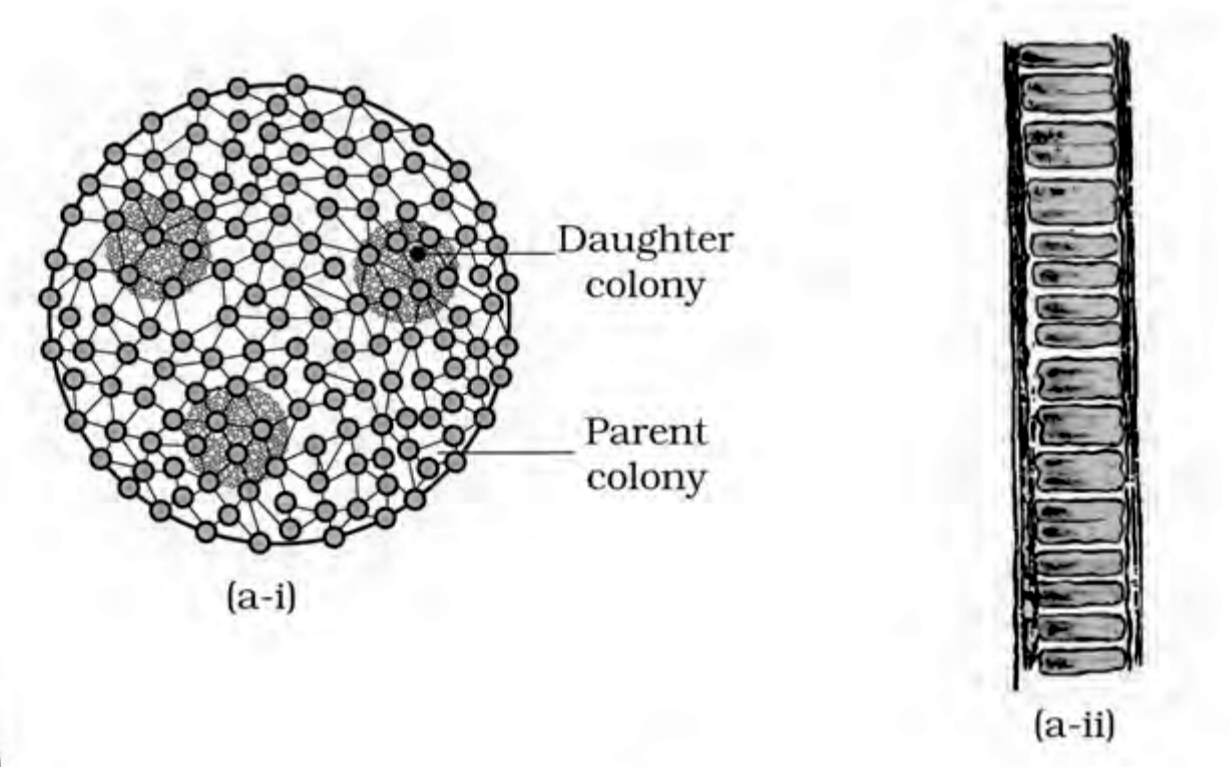
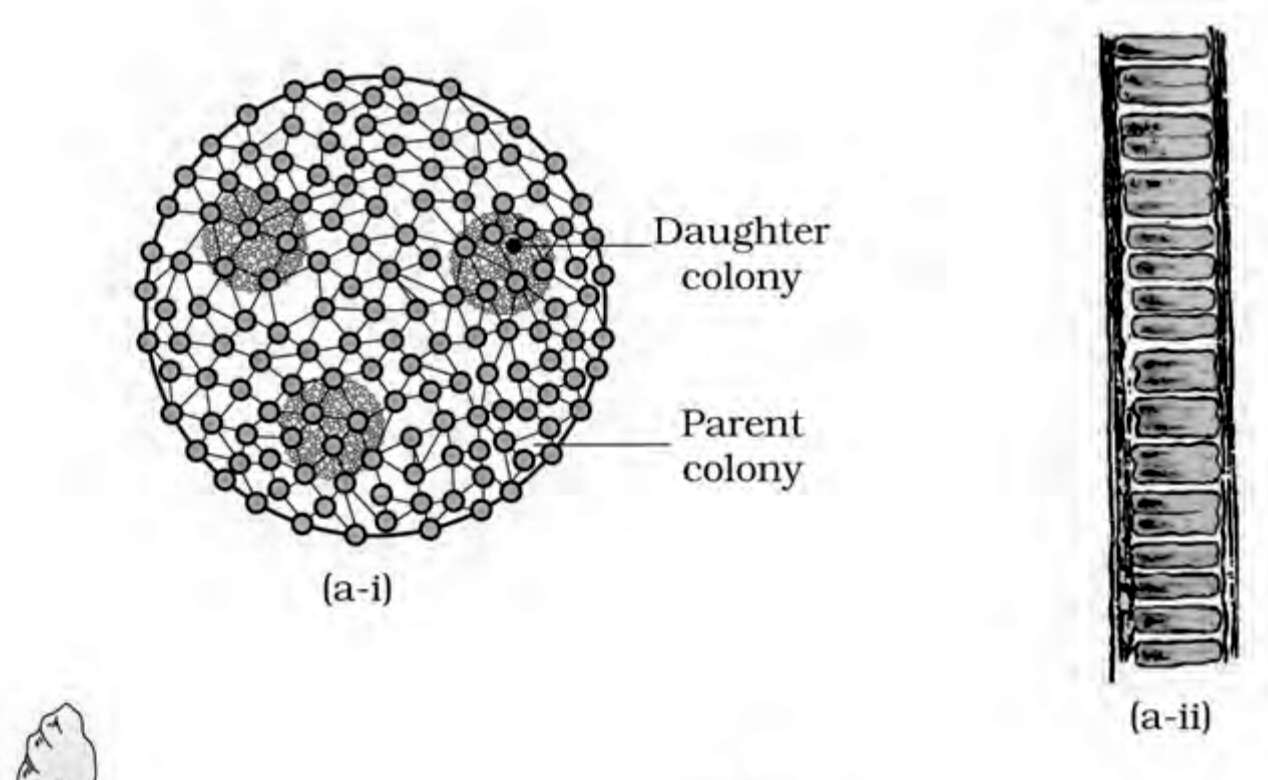
feat: refine Figure 3.1 extraction with improved crop boundaries and scrub rects

diff --git a/notes/class 11/Ch3_PlantKingdom/extract_figures.py b/notes/class 11/Ch3_PlantKingdom/extract_figures.py
@@ -34,39 +34,61 @@ DPI = 300
 # (asset_name, 1-based source page, clip rect, scrub rects) -- all rects are in PDF
 # points as (x0, y0, x1, y1) in *page* coordinates.
 #
-# `scrub` exists only because Figure 3.1's three caption sub-parts are NOT separated
-# by clean horizontal whitespace in the source plate: (b-i) Laminaria starts at
-# y=274.6 while row (a)'s "(a-ii)" label still runs to y=281.3, and (c-i) Porphyra
-# starts at y=490.6 while (b-iii) Dictyota runs down to y=540.5. Any rectangle that
-# captures all of row (b) therefore also catches a corner of row (a) or row (c).
-# Each scrub rect whites out ONLY a neighbouring figure's intrusion -- measured from
-# an ink-profile scan, never overlapping the target sub-part's own artwork or labels.
-# Nothing belonging to the figure being extracted is ever painted over.
+# `scrub` exists only because Figure 3.1's sub-parts are laid out as INTERLEAVED
+# COLUMNS, not clean rows. All part artwork + labels are baked into one raster
+# (page-3 image bbox x 68.8-494.7, y 102.0-672.3) with no text layer, so every
+# boundary below was measured from a thresholded ink-profile/bbox scan of that
+# raster at 200 dpi, then confirmed against a coordinate-gridded 150 dpi render.
+#
+# Measured extents (PDF points, page coords):
+#   (a-i)  artwork  x  95-235  y 112-245   + "(a-i)"  label below it
+#   (a-ii) artwork  x 330-390  y 112-266   + "(a-ii)" label x 353-390 y 270-287
+#   row (b) artwork            y 296-479.5, full x 69-486
+#     (b-i)   x  69-159   (b-ii)  x 186-337   (b-iii) x 353-486
+#   row (c) artwork x  91-443  y 487.8-671.4
+#     (c-i)   x 104-234   (c-ii)  x 295-443
+#
+# The single genuine collision: row (a)'s "(a-ii)" part label sits at
+# x 353-390 / y 270-287, i.e. BELOW the full-width whitespace band at y=270-275
+# and therefore inside any crop that starts at y=274. (b-iii) Dictyota's own
+# artwork does not begin until y=309.6 and (b-i)/(b-ii) not until y=296, so
+# starting row (b) at y=290 clears the "(a-ii)" label completely without
+# touching a single pixel of row (b) -- no scrub rect is needed at all.
+# Right edge 490 keeps (b-iii)'s "Frond" leader + label (ends x=486.2) intact.
+# Row (c) is cleanly separated: nothing of row (b) reaches below y=479.5.
 FIGURES = [
     # Figure 3.1 Algae -- one crop per NCERT caption sub-part, because the body text
     # itself cites "(Figure 3.1a)", "(Figure 3.1b)" and "(Figure 3.1c)" separately at
     # the end of 3.1.1, 3.1.2 and 3.1.3 respectively.
-    ("fig_3_1a", 3, (111.0, 104.0, 406.0, 288.0), []),
-    # Row (b) ends at y=478 (the "(b-i)"/"(b-ii)"/"(b-iii)" part labels bottom out at
-    # ~y=470); row (c)'s artwork does not begin until y=490. Measured off a 150 dpi
-    # gridded render of the plate: the ONLY clean full-width whitespace band on this
-    # page is y=270.2-274.5 (between rows a and b), so the b/c boundary is placed in
-    # the per-part vertical gap instead. A previous crop ran row (b) to y=491, which
-    # dragged the top of (c-i) Porphyra into the (b) asset.
-    # Right edge pushed to 496 so (b-iii)'s "Frond" leader + label are not clipped.
-    # The single scrub rect removes row (a)'s "(a-ii)" part label, which sits at
-    # y=274-286 directly above (b-iii); (b-iii)'s own artwork does not start until
-    # y~300, so nothing belonging to row (b) is painted over.
+    # Row (a): measured ink x 93.5-385.1, y 112.6-289.4 (the left bound is the
+    # "Daughter colony"/"Parent colony" leader text, not the Volvox artwork, and the
+    # lower bound is the "(a-i)"/"(a-ii)" part labels). Padded to clear both.
+    ("fig_3_1a", 3, (88.0, 106.0, 392.0, 293.0), []),
+    # Row (b): starts at y=290 -- below row (a)'s "(a-ii)" label (ends y=287) and
+    # above row (b)'s own topmost ink (y=296), so the neighbouring label is excluded
+    # by the crop itself rather than painted out (an earlier y=274 top dragged the
+    # "(a-ii)" label in). Ends at y=491, because the "(b-i)"/"(b-ii)"/"(b-iii)" part
+    # labels themselves run to y=489 -- an earlier y=478/482 cut sliced them in half.
+    # Right edge 490 keeps (b-iii)'s "Frond" leader + label (ends x=486.2) intact;
+    # an earlier 470 edge clipped it.
+    # The one scrub: (c-ii) Polysiphonia's topmost fronds reach up to y=468 in the
+    # x 385-465 strip (it is a tall figure in the right-hand column), which is inside
+    # row (b)'s y-band. (b-iii)'s own ink in that strip is its "Stipe" label, which
+    # ends at y=466, and its artwork column ends at x=460 above y=466 -- so scrubbing
+    # x 383-468 / y 469-491 removes only the (c-ii) intrusion. Verified against a
+    # 400 dpi gridded render of the y 462-512 boundary strip.
     (
         "fig_3_1b",
         3,
-        (66.0, 274.0, 496.0, 478.0),
-        [(330.0, 274.0, 400.0, 292.0)],
+        (64.0, 290.0, 490.0, 491.0),
+        [(383.0, 469.0, 468.0, 491.0)],
     ),
-    # Row (c): (c-i) Porphyra occupies x=124-210 and (c-ii) Polysiphonia x=282-462.
-    # A previous crop started at x=200, which sliced (c-i) Porphyra vertically down
-    # the middle and cut its "Frond" label in half -- 4.4 Step 3 defects (b) and (d).
-    ("fig_3_1c", 3, (118.0, 486.0, 470.0, 666.0), []),
+    # Row (c): (c-i) Porphyra x=104-234 (incl. its "Frond" label), (c-ii)
+    # Polysiphonia x=295-443 (incl. "Main axis"/"Branches"). An earlier crop started
+    # at x=200, slicing (c-i) vertically and halving its "Frond" label (Step 3
+    # defects (b)+(d)); another ended at y=666, clipping the "(c-ii)" part label
+    # which runs to y=671.4.
+    ("fig_3_1c", 3, (98.0, 484.0, 452.0, 675.0), []),
     # Figure 3.2 Bryophytes -- grouped as NCERT's caption groups them:
     # (a)+(b) the liverwort Marchantia, (c)+(d) the mosses.
     ("fig_3_2ab", 6, (114.0, 227.0, 534.0, 425.0), []),
